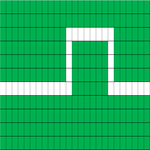
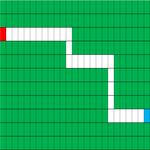
Updates
- multi-wave
- attempts at losing life

diff --git a/PokeDefence/src/pokedefence/PokeDefence.java b/PokeDefence/src/pokedefence/PokeDefence.java
@@ -14,7 +14,7 @@ import javax.swing.*;
 public class PokeDefence {
 	
     /********************Variables***********************/
-    private static int score=12345;
+    private static int score=0;
     private static int lives = 10;
     private static int gold = 0;
     private static int totalGold=0;
@@ -23,6 +23,8 @@ public class PokeDefence {
     private static int mouseClickCountThree=0;
     private static String[][] mapLayout = new String[11][26];
     private static int count=0;
+    private static int tick=0;
+    private static int index = randIndex();
     private static String playerName="";
     private static int winCondition=0;
     private static int mapPreviewCounter=0;
@@ -482,13 +484,13 @@ public class PokeDefence {
                     enemyPath.add(count);
                     count++;
                 }
-				else if (mapLayout[j][i].equals("S")) {
+                else if (mapLayout[j][i].equals("S")) {
                     //battleField.get(count).setBorder(BorderFactory.createLineBorder(Color.black, 1));
                     battleField.get(count).setBackground(Color.black);
                     enemyPath.add(count);
                     count++;
                 }
-				else if (mapLayout[j][i].equals("F")) {
+                else if (mapLayout[j][i].equals("F")) {
                     //battleField.get(count).setBorder(BorderFactory.createLineBorder(Color.black, 1));
                     battleField.get(count).setBackground(Color.red);
                     enemyPath.add(count);
@@ -497,9 +499,6 @@ public class PokeDefence {
             }
         }
         
-        for(int i=0;i<enemyPath.size();i++){
-            System.out.println(enemyPath.get(i));
-        }
         gridWindow.repaint();
         //Button
         //pauseGame.setSize(50,50);
@@ -872,7 +871,6 @@ public class PokeDefence {
         try {
             outputStream = new PrintWriter(new FileOutputStream("./Images/EndGameScreen/highScore.txt"));
             for(int i=0;i<highScoreList.size();i++){
-                System.out.println(highScoreList.get(i));
                 outputStream.println(highScoreList.get(i));
             }
         } 
@@ -1016,7 +1014,7 @@ public class PokeDefence {
         return score;
     }
 
-    public void setScore(int newscore) {
+    public static void setScore(int newscore) {
         score += newscore;
     }
 
@@ -1024,7 +1022,7 @@ public class PokeDefence {
         return lives;
     }
 
-    public void setLives(int newlives) {
+    public static void setLives(int newlives) {
         lives += newlives;
     }
 
@@ -1032,7 +1030,7 @@ public class PokeDefence {
         return gold;
     }
 
-    public void setGold(int newgold) {
+    public static void setGold(int newgold) {
         gold += newgold;
     }
 
@@ -1065,12 +1063,11 @@ public class PokeDefence {
 
     public static void gameLoop() {
         long beginTime, timeTaken, timeLeft;
-        int tick = 0;
-        int index = randIndex();
+        
         //This while loop breaks the game
         while (true) {
 
-            gameUpdate(tick, index);
+            gameUpdate();
             tick++;
 
             try {
@@ -1082,53 +1079,57 @@ public class PokeDefence {
         }
     }
 
-    public static void gameUpdate(int tick, int index) {
-        System.out.println("Game loop ticking " + tick + "\n");
+    public static void gameUpdate() {
         int MAX_TICK=0;
         if(mapPreviewCounter == 0){
-            MAX_TICK = 30;
-            if(tick == MAX_TICK){
-                System.out.println("map 1, if " + index);
+            MAX_TICK = 31;
+            if(tick >= MAX_TICK){
+                index = randIndex();
                 tick = 0;
-                moveEnemy(tick, index);
+                moveEnemy(index);
             }
             else{
-                System.out.println("map 1, else " + index);
-                moveEnemy(tick, index);
+                moveEnemy(index);
             }
         }
         else if(mapPreviewCounter == 1){
             MAX_TICK = 24;
-            if(tick == MAX_TICK){
+            if(tick >= MAX_TICK){
+                index = randIndex();
                 tick = 0;
-                moveEnemy(tick, index);
-                System.out.println("map 2, if " + index);
+                moveEnemy(index);
             }
             else{
-                System.out.println("map 2, else " + index);
-                moveEnemy(tick, index);
+                moveEnemy(index);
             }
         }
         else if(mapPreviewCounter == 2){
             MAX_TICK = 33;
-            if(tick == MAX_TICK){
+            if(tick >= MAX_TICK){
+                index = randIndex();
                 tick = 0;
-                moveEnemy(tick, index);
-                System.out.println("map 3, if " + index);
+                moveEnemy(index);
             }
             else{
-                moveEnemy(tick, index);
-                System.out.println("map 3, else " + index);
+                moveEnemy(index);
             }
         }
-        if(tick == MAX_TICK){
+        /*if(tick == MAX_TICK){
             index = randIndex();
             System.out.println(index);
-        }
+        }*/
     }
     
-    public static void moveEnemy(int tick, int index){
-        System.out.println(index);
+    public static void moveEnemy(int index){
+        
+        System.out.println(enemyPath.get(enemyPath.size()-1));
+        if(enemyPath.get(tick).equals(enemyPath.get(enemyPath.size()-1))){
+            System.out.println("Got here");
+            setLives(-1);
+            updateStats();
+        }
+        System.out.println(getLives());
+        
         String[] enemies = {"./Images/Enemy/mew.png", "./Images/Enemy/eevee.png", "./Images/Enemy/mewtwo.png", "./Images/Enemy/garydos.png", "./Images/Enemy/rattata.png"};
         image.setVisible(false);
         battleField.get(enemyPath.get(tick)).add(image);
